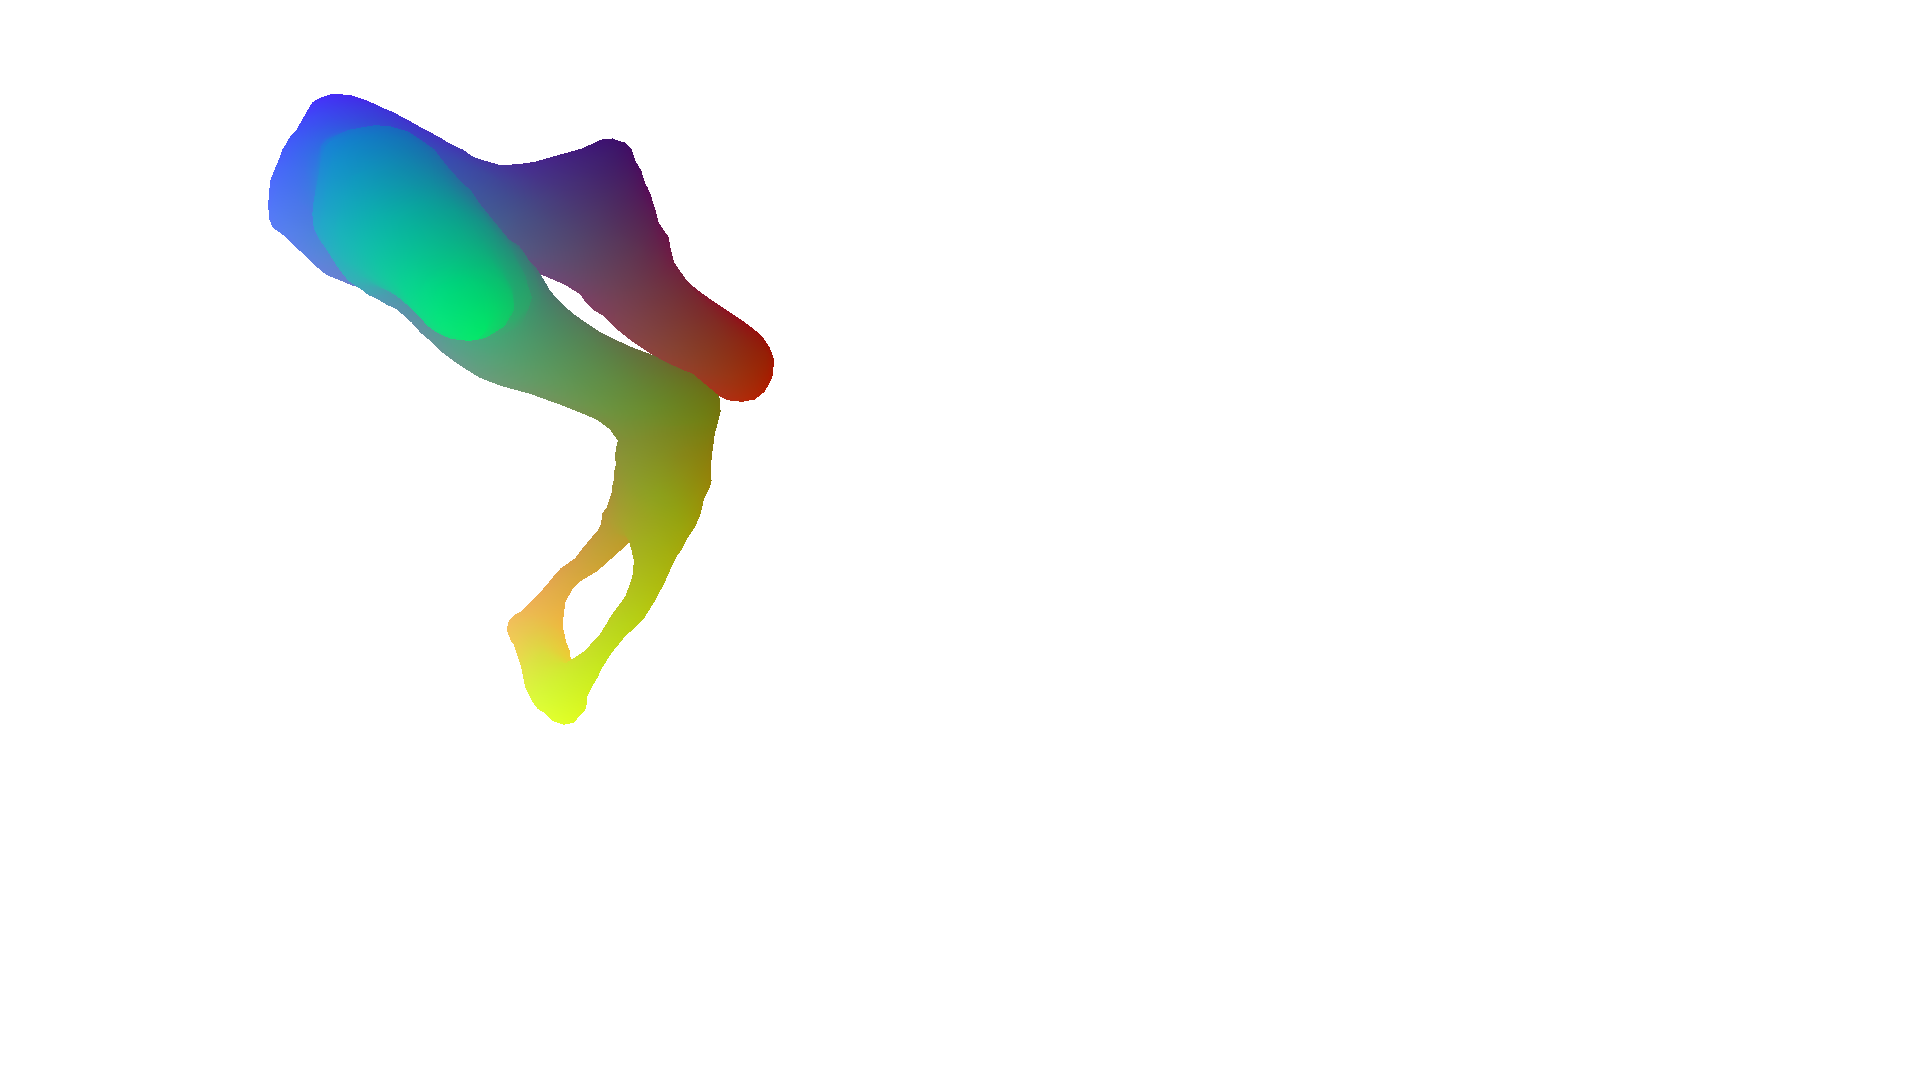
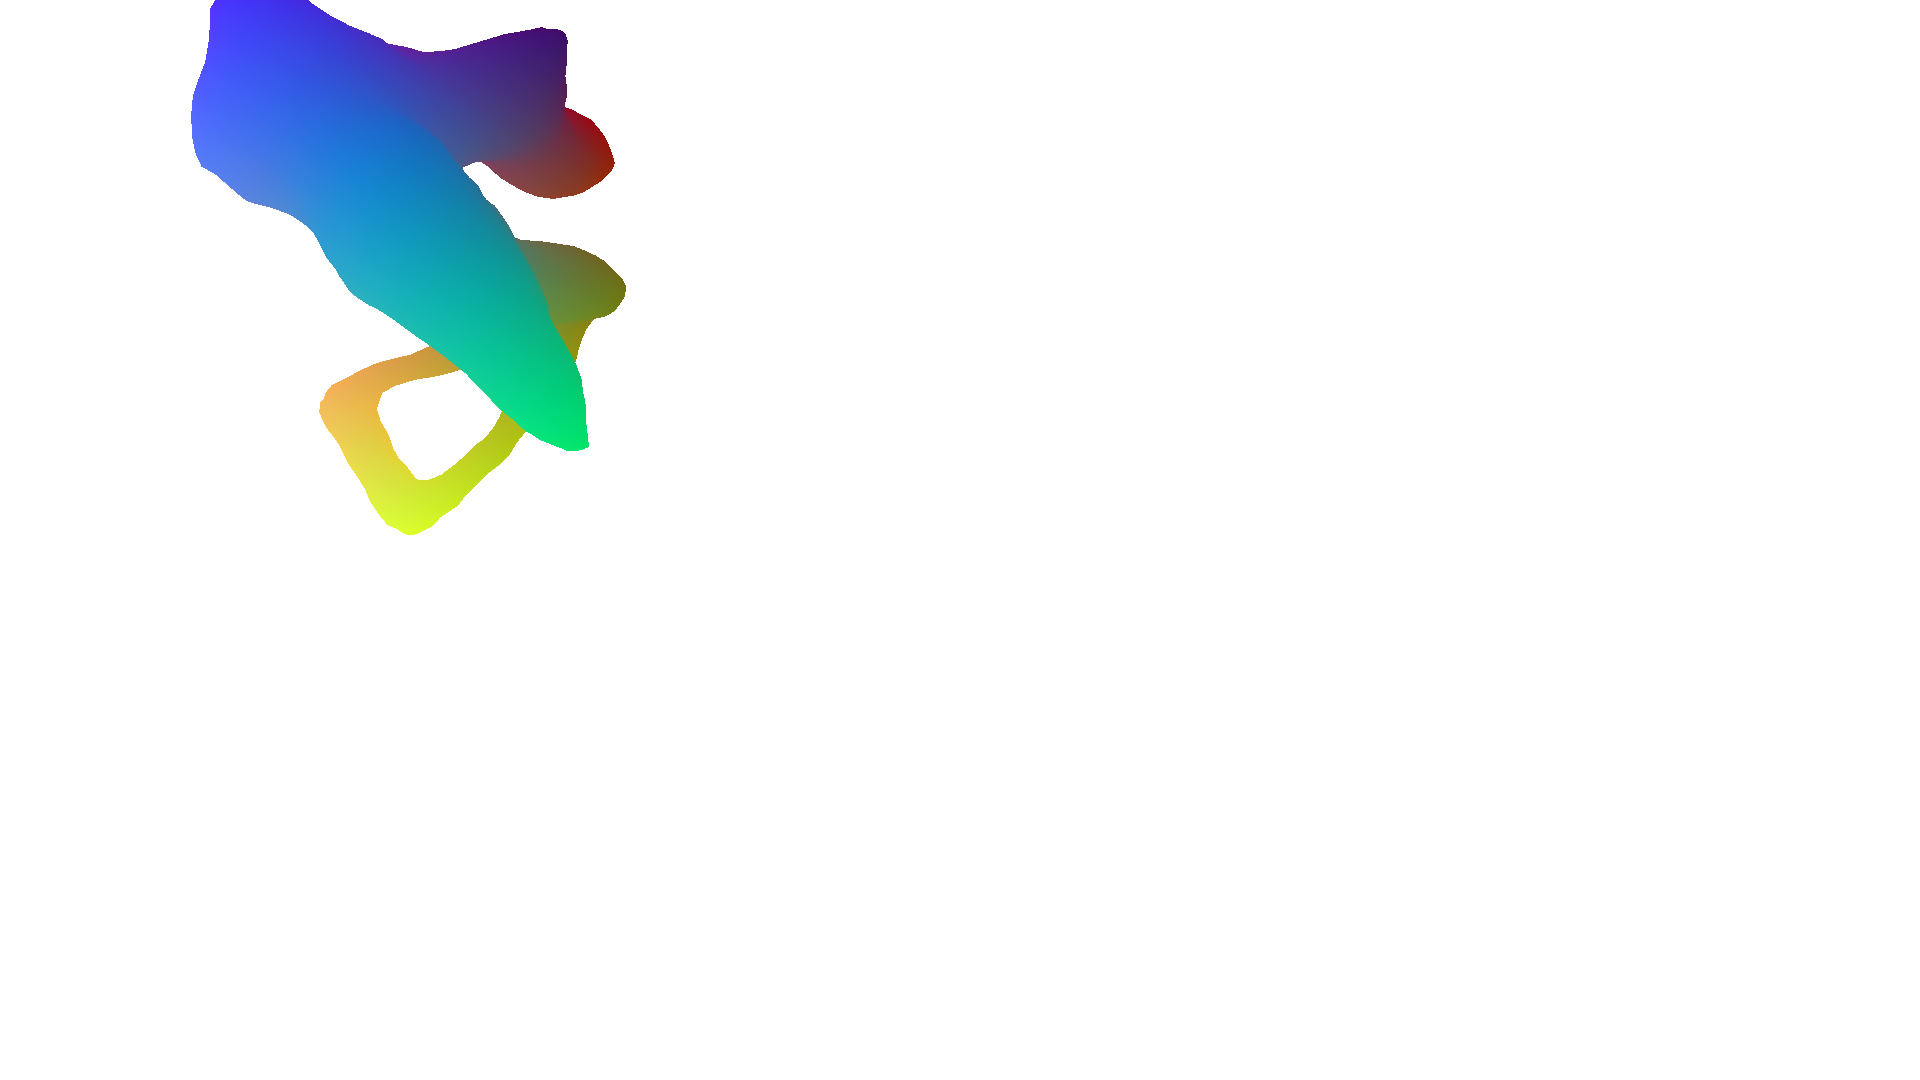
updates

Changed region(s): [[0.0938, 0.0, 0.4062, 0.6722]]

diff --git a/vision6D/test_sample.py b/vision6D/test_sample.py
@@ -1,6 +1,7 @@
 from PIL import Image, ImageOps
 import matplotlib.pyplot as plt
 import numpy as np
+import copy
 import cv2
 
 
@@ -13,18 +14,60 @@ def compare_two_images():
 if __name__ == "__main__":
     
     plot = np.array(Image.open("res_plot.png"))
+    # image_grey = Image.open("res_render_grey.png")
     
-    image = Image.open("res_render.png")
+    # image_grey_np = np.array(image_grey)
     
-    invert_image = ImageOps.invert(image)
-    im = np.array(image)
-    invert_im = np.array(invert_image)
+    # # pixels = [i for i in image_grey.getdata()]
+    # # assert not (255, 255, 255) in pixels, "(255, 255, 255) in pixels"
     
-    x, y, _ = np.where(invert_im)
-    min_x, max_x = min(x), max(x)
-    min_y, max_y = min(y), max(y)
+    # sought = [0,0,0]
+    # black  = np.count_nonzero(np.all(image_grey_np==sought,axis=2))
+    # print(f"black: {black}")
     
-    crop = im[min_x:max_x, min_y:max_y, :]
+    # sought = [255,255,255]
+    # white  = np.count_nonzero(np.all(image_grey_np==sought,axis=2))
+    # print(f"white: {white}")
+    
+    image_white_bg = Image.open("res_render.png")
+    
+    image_white_bg = np.array(image_white_bg)
+    
+    image_black_bg = copy.deepcopy(image_white_bg)
+    
+    image_black_bg[np.where((image_black_bg[...,0] == 255) & (image_black_bg[...,1] == 255) & (image_black_bg[...,2] == 255))] = [0,0,0]
+     
+    frame = Image.open("image.png")
+    
+    frame_np = np.array(frame)
+    
+    extent = 0, plot.shape[1], plot.shape[0], 0
+    
+    plt.subplot(221)
+    plt.imshow(frame_np, alpha=1, extent=extent, origin="upper")
+
+    plt.subplot(222)
+    im1 = plt.imshow(plot, extent=extent, origin="upper")
+    im2 = plt.imshow(image_white_bg, alpha=0.5, extent=extent, origin="upper")
+    
+    plt.subplot(223)
+    plt.imshow(image_white_bg, alpha=1, extent=extent, origin="upper")
+    
+    plt.subplot(224)
+    plt.imshow(image_black_bg, alpha=1, extent=extent, origin="upper")
+    plt.show()
+    
+    print('hhh')
+    
+    # invert_image = ImageOps.invert(image)
+    # im = np.array(image)
+    # invert_im = np.array(invert_image)
+    
+    # x, y, _ = np.where(invert_im)
+    # min_x, max_x = min(x), max(x)
+    # min_y, max_y = min(y), max(y)
+    
+    # crop = im[min_x:max_x, min_y:max_y, :]
     
     # imageBox = invert_im.getbbox()
     # imageBox = tuple(np.asarray(imageBox))

diff --git a/vision6D/app.py b/vision6D/app.py
@@ -24,16 +24,19 @@ class App:
         self.xyviewcamera.focal_point = (9.6, 5.4, 0)
         self.xyviewcamera.up = (0.0, 1.0, 0.0)
         
-        self.gt_orientation = (35.57143478233399, 86.14563590414456, 163.22833630484539)
-        self.gt_position = (-4.892817134622411, 36.41065351570653, -5.650059814317807)
+        # self.gt_orientation = (35.57143478233399, 86.14563590414456, 163.22833630484539)
+        # self.gt_position = (-4.892817134622411, 36.41065351570653, -5.650059814317807)
+        
+        self.gt_orientation = (6.835578651406617, 47.91692755829381, 172.76787223914218)
+        self.gt_position = (2.5987030981091648, 31.039133701224685, 14.477777915423951)
         
         if self.register:
             self.pl = pv.Plotter(window_size=[1920, 1080])
-            self.xyviewcamera.position = (9.6, 5.4, 40)
         else:
             self.pl = pv.Plotter(window_size=[1920, 1080], off_screen=True)
             self.pl.store_image = True
-            self.xyviewcamera.position = (9.6, 5.4, 20)
+            
+        self.xyviewcamera.position = (9.6, 5.4, 20)
         
         # render ossicles
         self.pr = pv.Plotter(window_size=[1920, 1080], lighting=None, off_screen=True)
@@ -100,6 +103,10 @@ class App:
         
         logger.debug(f"\n{name} orientation: {self.actors[name].orientation}")
         logger.debug(f"\n{name} position: {self.actors[name].position}")
+        
+    def event_zoom_out(self, *args):
+        self.pl.camera.zoom(0.5)
+        logger.debug("event_zoom_out callback complete")
 
     def event_reset_camera(self, *args):
         self.pl.camera = self.xyviewcamera.copy()
@@ -189,6 +196,7 @@ class App:
 
         # Register callbacks
         self.pl.add_key_event('c', self.event_reset_camera)
+        self.pl.add_key_event('z', self.event_zoom_out)
         self.pl.add_key_event('d', self.event_reset_image_position)
         self.pl.add_key_event('t', self.event_track_registration)
         self.pl.add_key_event('g', self.event_realign_facial_nerve_chorda)
